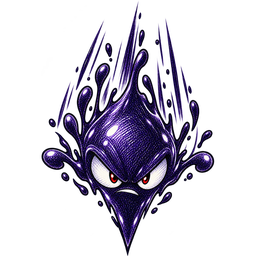
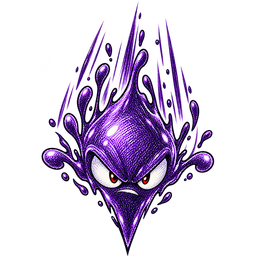
Roxo rápido mais claro e puxado para o lilás da gota

Changed region(s): [[0.1562, 0.0625, 0.8438, 0.9688], [0.5312, 0.0312, 0.5625, 0.0625]]

diff --git a/docs/proximas-melhorias.md b/docs/proximas-melhorias.md
@@ -71,10 +71,10 @@ eviver\gerados\`), 3 corações, "Volte com 3 corações", "Continue da página 
 - **Hub "A evoluída" (conselho 29/10):** estrutura da A aprovada (capítulo compacto → arte grande → nome/estado → trilha → botão forte), selo pequeno no canto. Sem campo novo no save na primeira leva: capítulo não vencido mostra a ilustração do objeto (o subtítulo já é o nome do objeto, então nada é entregue), vencido mostra o monstro colorido com selo no canto (vencido = abaixo de `capitulo_desbloqueado`). A revelação objeto → monstro acontece no combate, quando o chefe surge na página 8 (sem estado novo). Botão com moldura e texto conforme a ação (Lutar / Continuar · página X / Jogar de novo), sem tirar o popup de retomada. Trilha maior, com o mini desenho do chefe na última casa (não depende só de cor). "Melhor página" entra depois, como campo com valor padrão. Cortado: transição no hub com flag "chefe visto", post-it e cartaz permanentes.
 - **Hub "A evoluída", protótipo (29/10):** 3 estados na página de antes/depois (não vencido, partida salva, vencido). Gerado por script fora do repositório; aguardando aprovação para entrar no jogo.
 
-## Cores: gota do comum e roxo rápido (07/11) — aguardando aprovação
+## Cores: gota do comum e roxo rápido (07/11) — APROVADO e no jogo (azul + C)
 - Gota do comum ainda era cinza (`ink-black.svg`, da época em que ele era preto). Proposta: `ink-blue.svg` = a gota roxa recolorida para o matiz do comum (235°), só nos tons saturados; contorno preto igual. Gota vetorial: recolorir sai idêntica, sem GPT.
 - Nanquim (roxo rápido) escuro perto da própria gota: só os tons roxos do corpo clareiam (contorno quase preto e olhos ficam). Variantes A/B/C; C (mais claro e matiz +14° para o lilás da gota) recomendada.
-- Arquivos das variantes em `Documentos/Sketch Blade - design/inimigos-cores/`. Página: https://claude.ai/artifact/DqxiLTdEtDZ4Q4AD36nPA7
+- No jogo: `assets/ink-blue.svg` (a `ink-black.svg` saiu), `assets/inimigos/nanquim.png` = C, mancha da morte do Nanquim `4f2a8a` (era `3b2c64`). Original e variantes em `Documentos/Sketch Blade - design/inimigos-cores/`. Página: https://claude.ai/artifact/DqxiLTdEtDZ4Q4AD36nPA7
 
 ## "Passou duas páginas ao mesmo tempo" no descanso (07/11) — corrigido no código, aguardando aprovação
 - Relato dos testadores: depois do descanso parece que passam as páginas 4 e 5 juntas.
